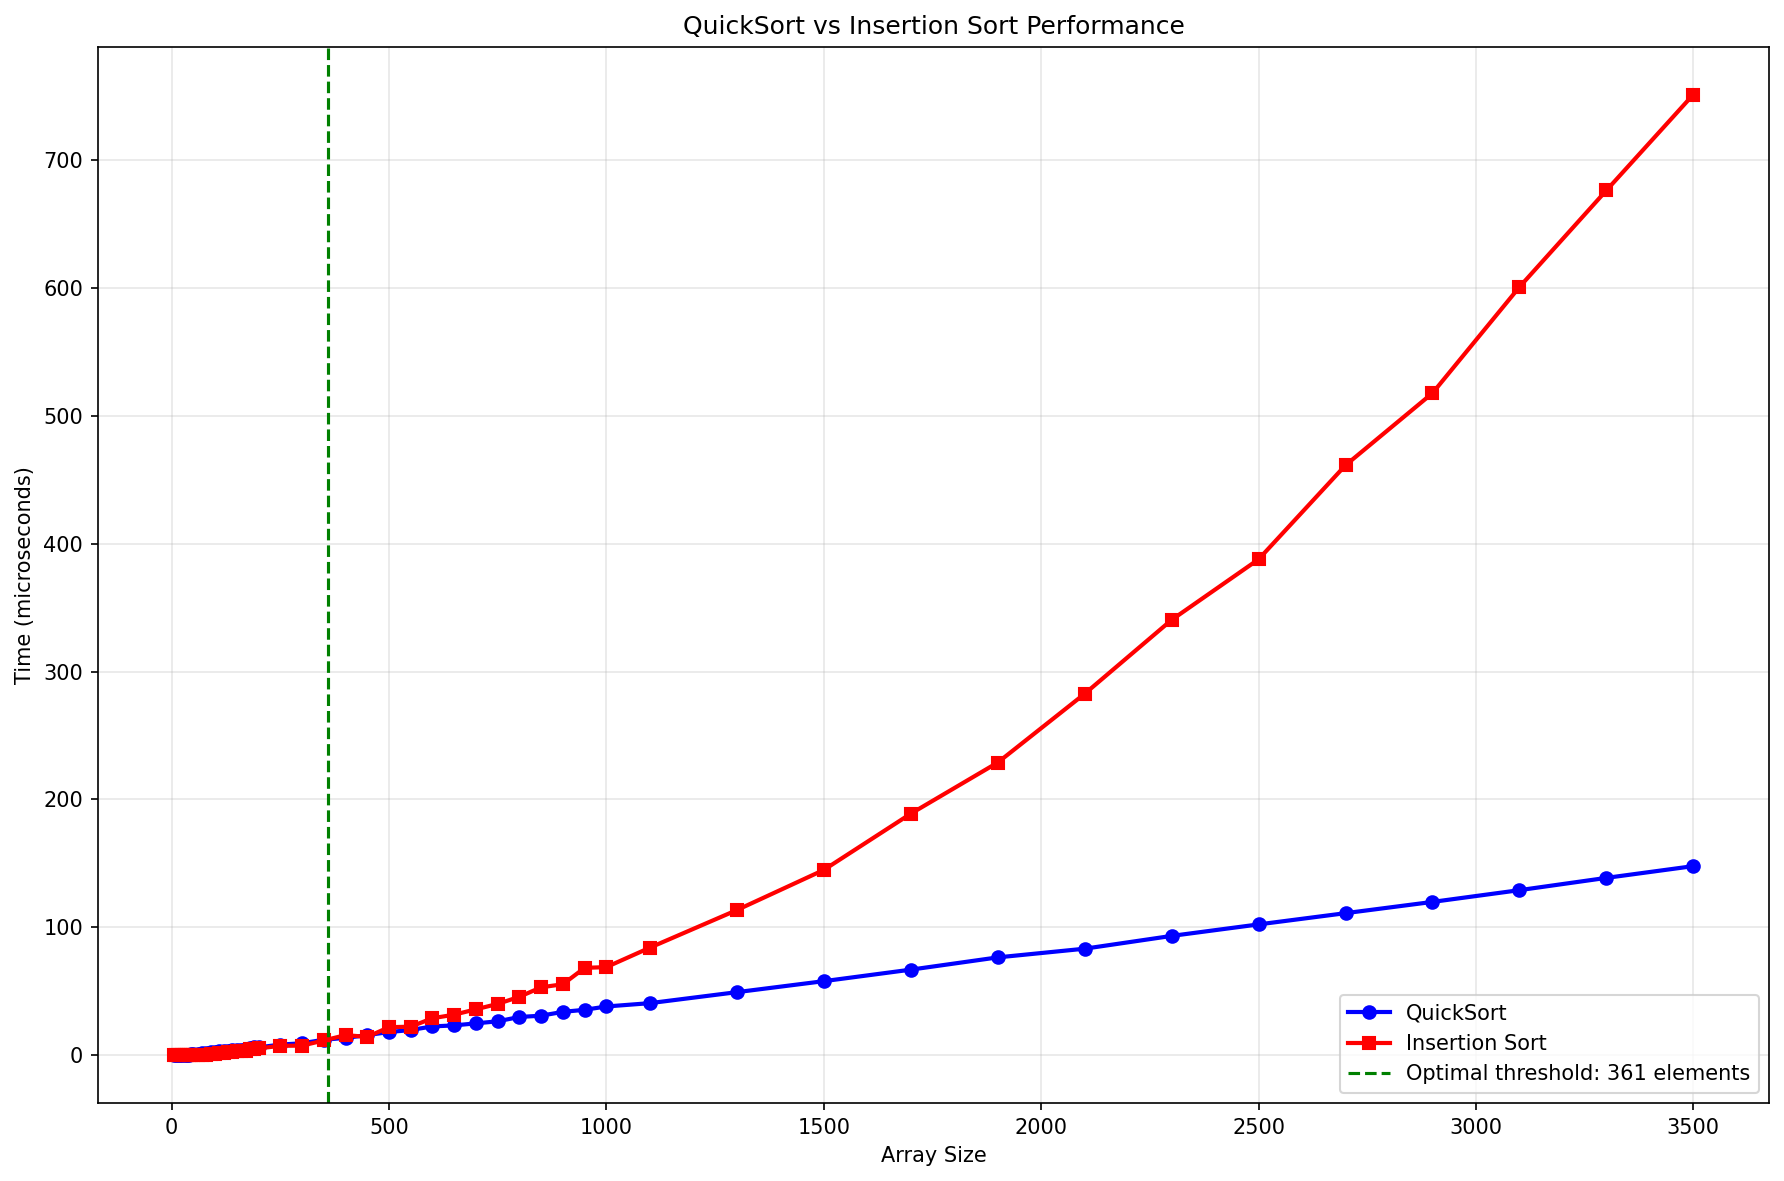
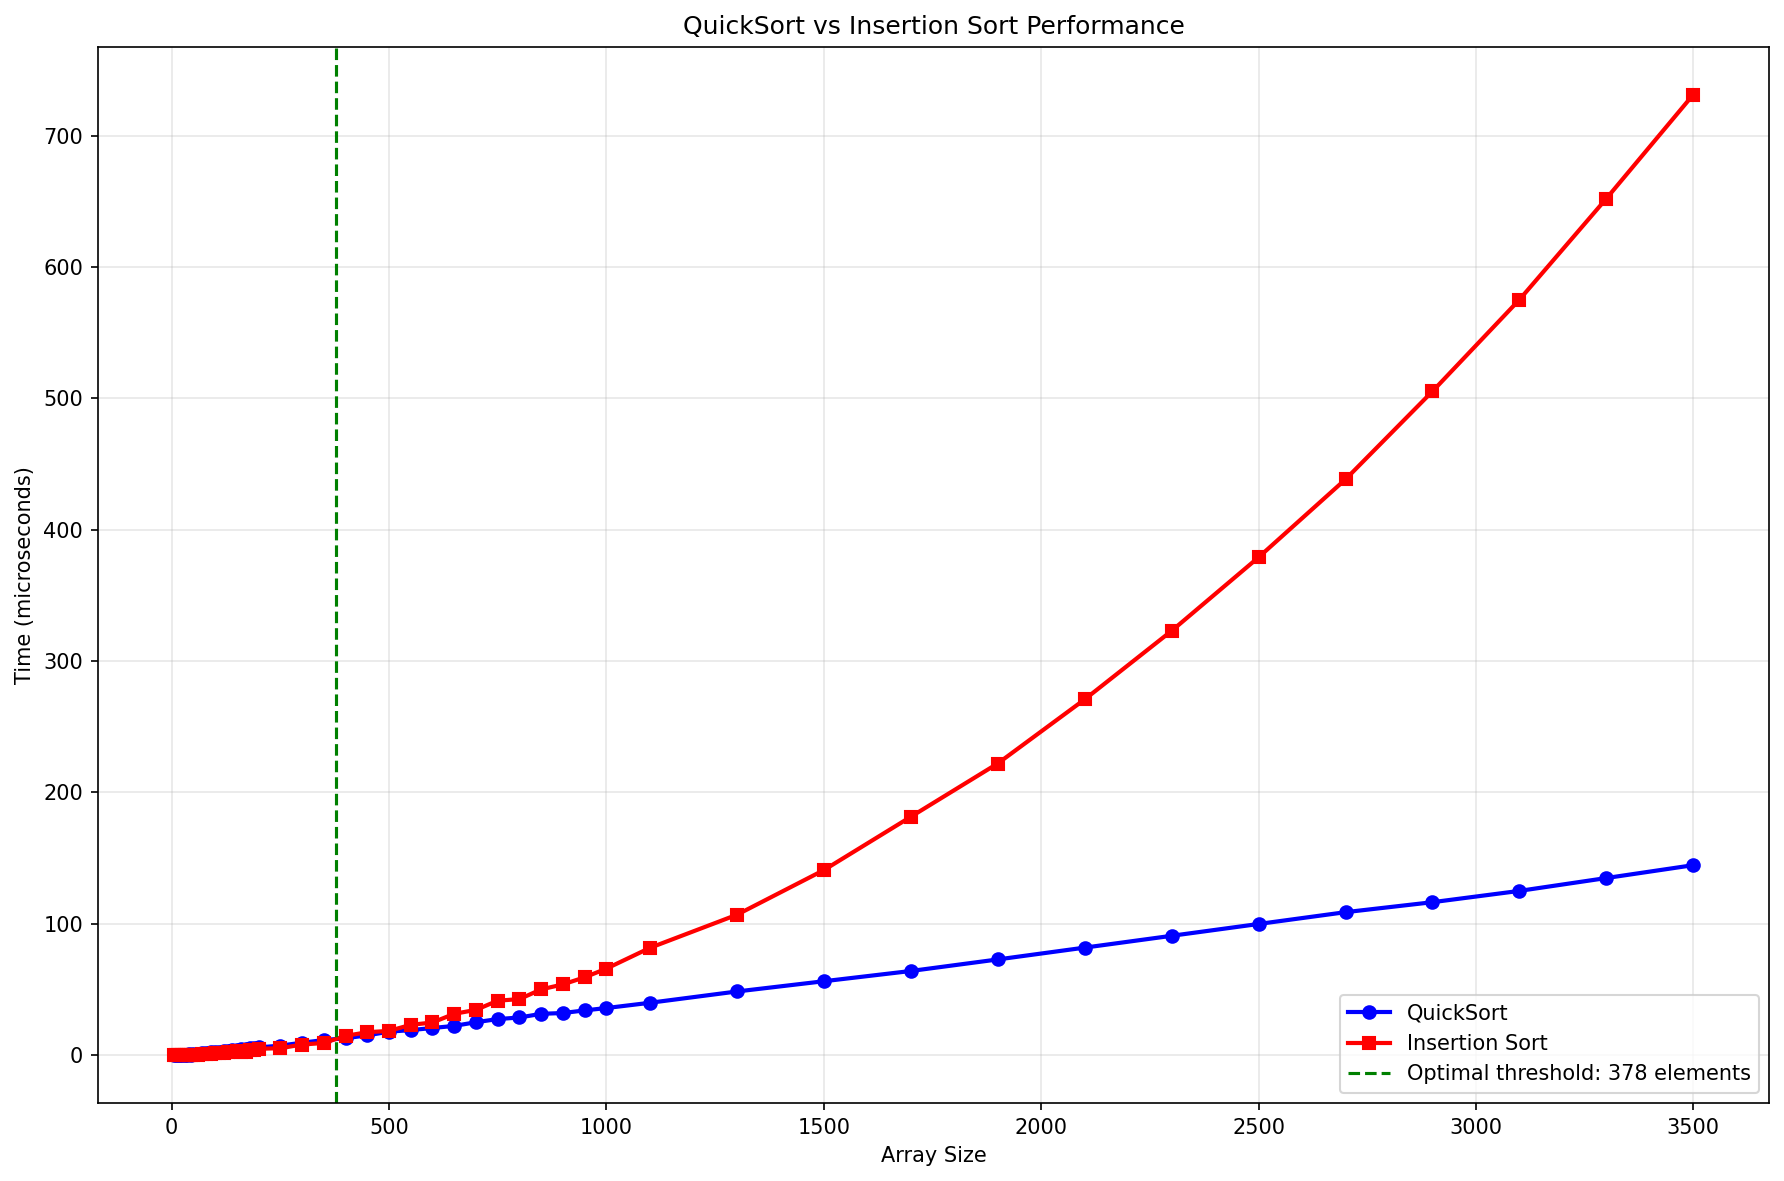
Made dynamic array iterator as a random iterator. Fixed sorting algo

diff --git a/lab2/include/quick_sort.hpp b/lab2/include/quick_sort.hpp
@@ -1,30 +1,35 @@
+#include <concepts>
 #include <functional>
 #include <iterator>
 #include <utility>
 
-#define INSERTION_THRESHOLD 16
+#define INSERTION_THRESHOLD 377
 #define JD_TEST
 
 namespace jd
 {
-template <typename RandomIt>
-RandomIt selectPivot(RandomIt first, RandomIt last)
+template <typename It, typename Compare>
+concept Sortable = std::random_access_iterator<It> && std::invocable<Compare, std::iter_value_t<It>, std::iter_value_t<It>> &&
+                   std::predicate<Compare, std::iter_value_t<It>, std::iter_value_t<It>>;
+
+template <typename RandomIt, typename Compare>
+RandomIt selectPivot(RandomIt first, RandomIt last, const Compare& cmp)
 {
     RandomIt mid       = first + (last - first) / 2;
     RandomIt last_iter = last - 1;
 
     if (*first < *mid) {
-        if (*mid < *last_iter) {
+        if (cmp(*mid, *last_iter)) {
             return mid;
-        } else if (*first < *last_iter) {
+        } else if (cmp(*first, *last_iter)) {
             return last_iter;
         }
 
         return first;
     } else {
-        if (*last_iter < *mid) {
+        if (cmp(*last_iter, *mid)) {
             return mid;
-        } else if (*last_iter < *first) {
+        } else if (cmp(*last_iter, *first)) {
             return last_iter;
         }
 
@@ -33,9 +38,9 @@ RandomIt selectPivot(RandomIt first, RandomIt last)
 }
 
 template <typename RandomIt, typename Compare>
-RandomIt partitionHoare(RandomIt first, RandomIt last, Compare cmp)
+RandomIt partitionHoare(RandomIt first, RandomIt last, const Compare& cmp)
 {
-    RandomIt pivot_it = selectPivot(first, last);
+    RandomIt pivot_it = selectPivot(first, last, cmp);
     auto pivot        = *pivot_it;
 
     RandomIt left  = first - 1;
@@ -58,7 +63,8 @@ RandomIt partitionHoare(RandomIt first, RandomIt last, Compare cmp)
     }
 }
 
-template <typename RandomIt, typename Compare = std::less<typename std::iterator_traits<RandomIt>::value_type>>
+template <typename RandomIt, typename Compare = std::less<std::iter_value_t<RandomIt>>>
+requires Sortable<RandomIt, Compare>
 void insertionSort(RandomIt first, RandomIt last, Compare cmp = Compare{})
 {
     using DistT = typename std::iterator_traits<RandomIt>::difference_type;
@@ -89,7 +95,8 @@ void insertionSort(RandomIt first, RandomIt last, Compare cmp = Compare{})
     }
 }
 
-template <typename RandomIt, typename Compare = std::less<typename std::iterator_traits<RandomIt>::value_type>>
+template <typename RandomIt, typename Compare = std::less<std::iter_value_t<RandomIt>>>
+requires Sortable<RandomIt, Compare>
 void sort(RandomIt first, RandomIt last, Compare cmp = {})
 {
     while (last - first > 1) {

diff --git a/lab2/include/dynamic_array.hpp b/lab2/include/dynamic_array.hpp
@@ -225,7 +225,7 @@ private:
 
     public:
         using difference_type   = std::ptrdiff_t;
-        using value_type        = std::remove_cv_t<T>;
+        using value_type        = T;
         using pointer           = data_pointer;
         using reference         = std::conditional_t<Const, const T&, T&>;
         using iterator_category = std::random_access_iterator_tag;
@@ -359,10 +359,15 @@ private:
             return *this += -n;
         }
 
-        Iterator operator+(difference_type n) const noexcept
+        friend Iterator operator+(const Iterator& it, difference_type n) noexcept
         {
-            Iterator temp{*this};
+            Iterator temp{it};
             return temp += n;
+        }
+
+        friend Iterator operator+(difference_type n, const Iterator& it) noexcept
+        {
+            return it + n;
         }
 
         Iterator operator-(difference_type n) const noexcept
@@ -404,8 +409,15 @@ private:
             return !(*this < other);
         }
 
-        bool operator==(const Iterator&) const = default;
-        bool operator!=(const Iterator&) const = default;
+        bool operator==(const Iterator& other) const noexcept
+        {
+            return ptr_ == other.ptr_;
+        }
+
+        bool operator!=(const Iterator& other) const noexcept
+        {
+            return !(*this == other);
+        }
 
         template <bool OtherConst, bool OtherReverse>
         Iterator(const Iterator<OtherConst, OtherReverse>& other)

diff --git a/lab2/main.cpp b/lab2/main.cpp
@@ -22,9 +22,11 @@ template <bool IsQuick>
 void benchmarkSort(size_t size, size_t num_runs = 1000)
 {
     double total_time{};
+    const auto generatedArr = generateArray(size);
+    auto arr                = generatedArr;
 
     for (size_t run = 0; run <= num_runs; ++run) {
-        auto arr   = generateArray(size);
+        auto arr   = generatedArr;
         auto start = std::chrono::high_resolution_clock::now();
         if constexpr (IsQuick) {
             jd::sort(arr.begin(), arr.end());
@@ -44,7 +46,7 @@ void benchmarkSort(size_t size, size_t num_runs = 1000)
         }
     }
 
-    double average_time = total_time / num_runs;
+    const double average_time = total_time / num_runs;
     std::cout << static_cast<long>(average_time) << std::endl;
 }
 
